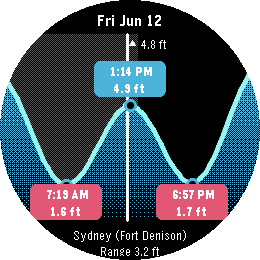
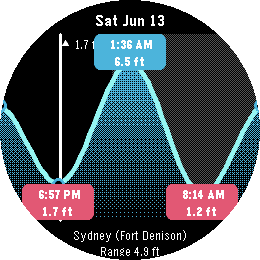
Capture the curve-pan animation in the store GIF (5 tides) (#57)
The animated GIF was a slideshow: it pressed DOWN, waited for the 250ms
pan to settle, then took one screenshot per tide. The emulator screenshot
round-trip is far slower than the pan, so every frame landed after the
motion finished.

Slow the pan at capture time and sample it instead:
- pebble_tides.c: pan duration is now PAN_ANIM_DURATION_MS (default 250),
  overridable via a compile define.
- wscript: PEBBLE_TIDES_PAN_MS=<ms> appends -DPAN_ANIM_DURATION_MS per
  platform. Unset = unchanged 250ms for normal builds and releases.
- screenshots.sh: builds with the pan slowed (default 4000ms), fires
  screenshots as fast as the emulator allows across each pan window, and
  replays them fast (moving frames 6cs, settled tides hold 120cs). Rolls
  forward 5 tides.

Regenerated screenshots for all platforms.

diff --git a/src/c/pebble_tides.c b/src/c/pebble_tides.c
@@ -20,6 +20,13 @@
 #define FAR_WARNING_KM 500
 #define WINDOW_SECONDS (24 * 3600)  // full day, centered on the Focused Tide
 
+// Curve-pan animation length. Overridable at build time so the screenshot
+// tooling can slow the pan down (PEBBLE_TIDES_PAN_MS) and sample its frames;
+// the emulator screenshot round-trip is far slower than the 250ms default.
+#ifndef PAN_ANIM_DURATION_MS
+#define PAN_ANIM_DURATION_MS 250
+#endif
+
 #define PERSIST_BLOB_LEN 10
 #define PERSIST_BLOB_BASE 11
 
@@ -773,7 +780,7 @@ static void prv_pan_to(int32_t target_epoch) {
   s_pan_anim = animation_create();
   animation_set_implementation(s_pan_anim, &s_anim_impl);
   animation_set_handlers(s_pan_anim, s_anim_handlers, NULL);
-  animation_set_duration(s_pan_anim, 250);
+  animation_set_duration(s_pan_anim, PAN_ANIM_DURATION_MS);
   animation_set_curve(s_pan_anim, AnimationCurveEaseInOut);
   animation_schedule(s_pan_anim);
 }
